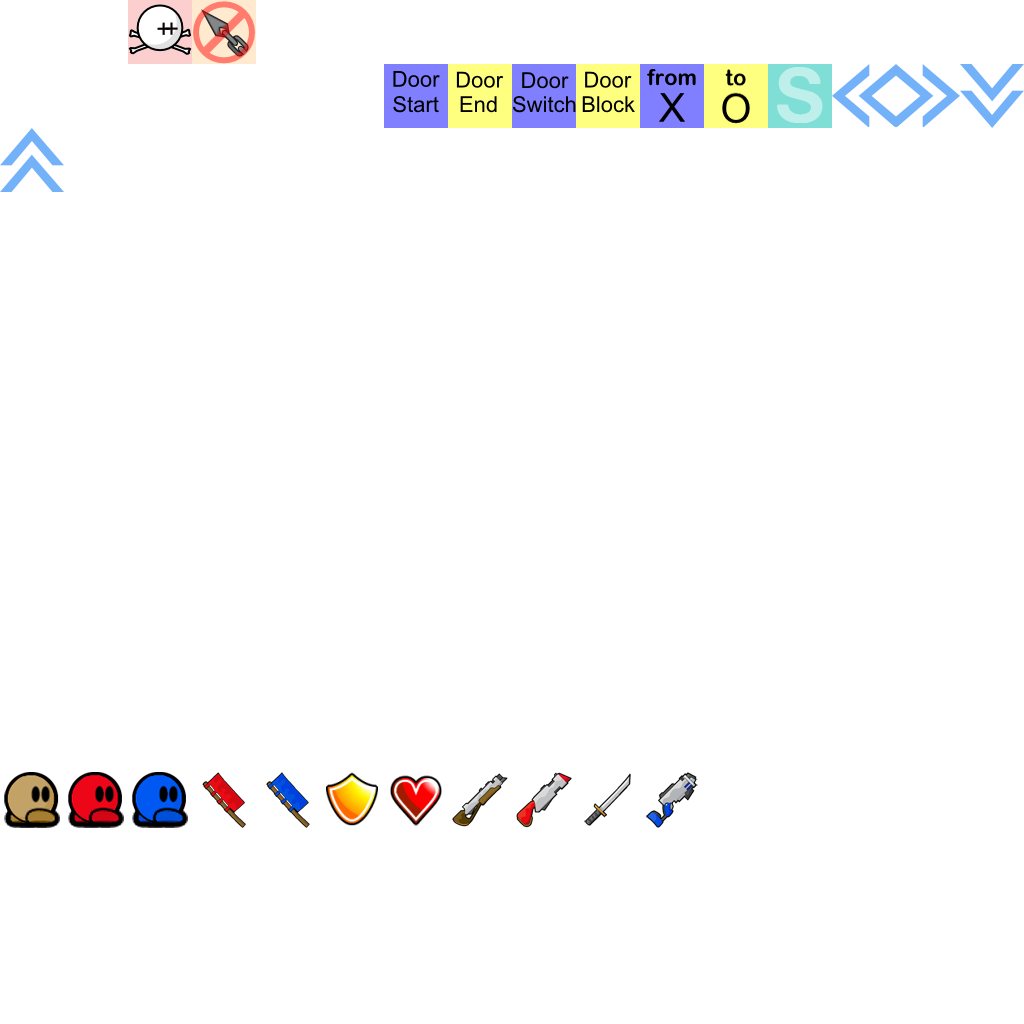
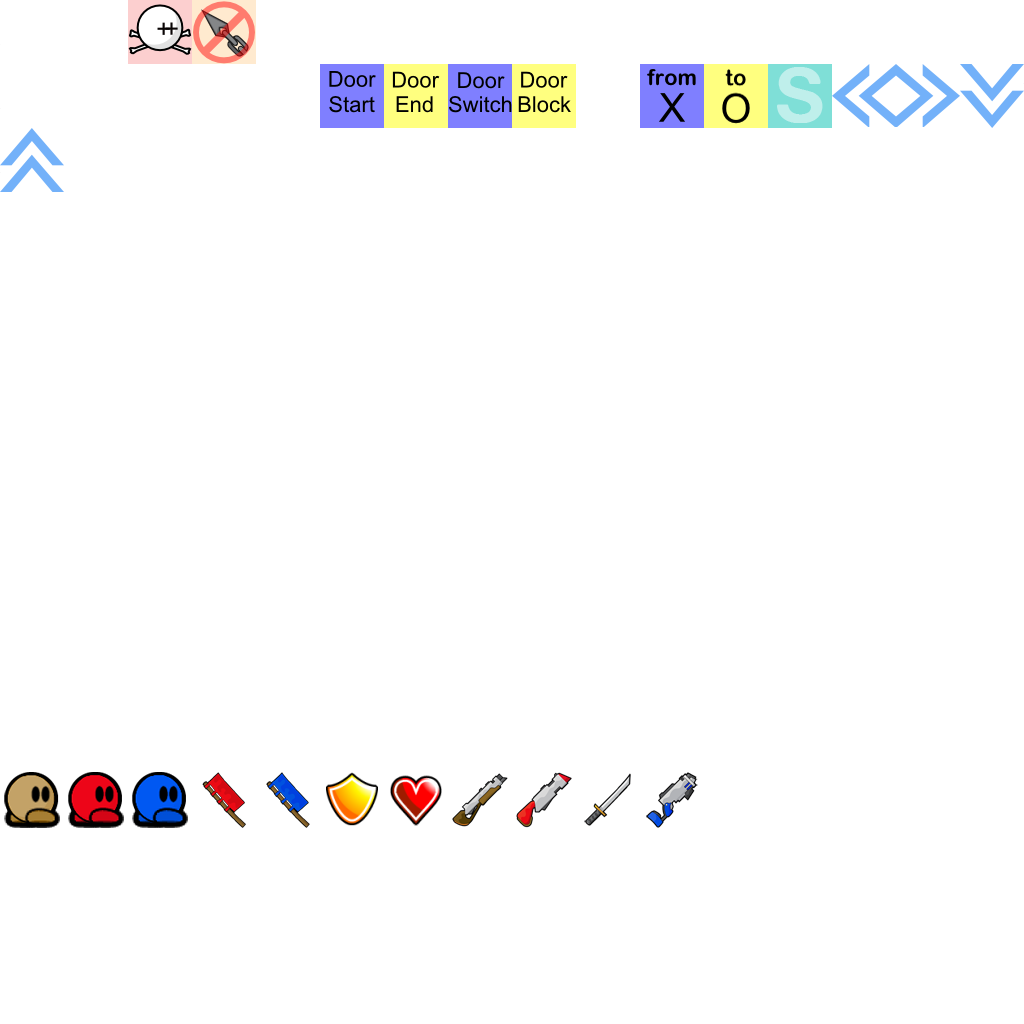
fixed entities and mod for newest mappingclient

Changed region(s): [[0.3125, 0.0625, 0.625, 0.125]]

diff --git a/src/game/mapitems.h b/src/game/mapitems.h
@@ -46,7 +46,7 @@ enum
 	TILE_SOLID,
 	TILE_DEATH,
 	TILE_NOHOOK,
-	TILE_DOOR_START=23,
+	TILE_DOOR_START=21,
 	TILE_DOOR_END,
 	TILE_DOOR_SWITCH,
 	TILE_DOOR_BLOCK,
